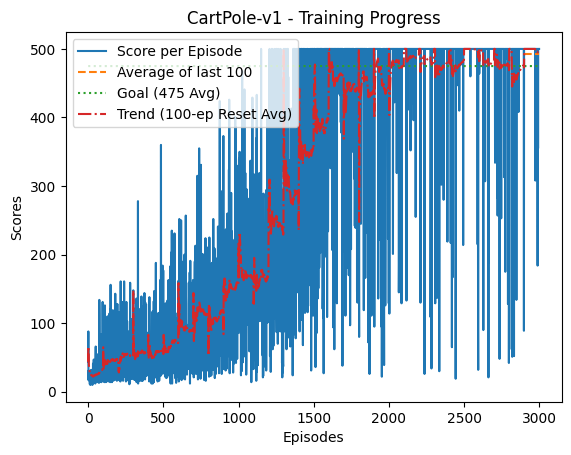
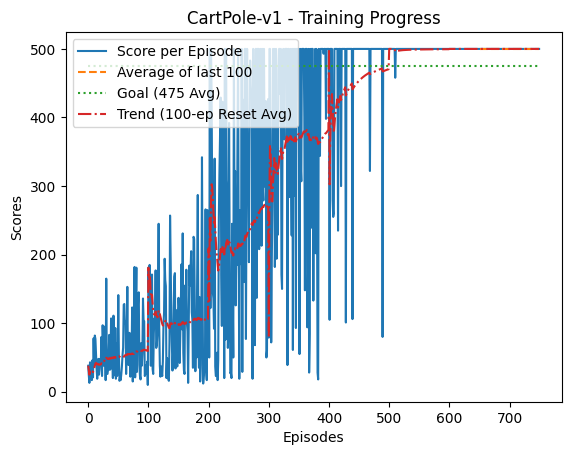
debug ppo

diff --git a/trainppo.py b/trainppo.py
@@ -1,0 +1,181 @@
+""""
+CartPole Training & Evaluation (PyTorch + Gymnasium)
+---------------------------------------------------
+- Trains a DQN agent and logs scores via ScoreLogger (PNG + CSV)
+- Saves model to ./models/cartpole_dqn.torch
+- Evaluates from a saved model (render optional)
+
+Student reading map:
+  1) train(): env loop → agent.act() → env.step() → agent.step() [Encapsulated]
+  2) evaluate(): loads saved model and runs agent.act(evaluation_mode=True)
+"""
+
+from __future__ import annotations
+import os
+import time
+import numpy as np
+import gymnasium as gym
+import torch
+
+from agents.cartpole_dqn import DQNSolver, DQNConfig
+from agents.ppo import PPOSolver, PPOConfig
+from scores.score_logger import ScoreLogger
+
+ENV_NAME = "CartPole-v1"
+MODEL_DIR = "models"
+MODEL_PATH = os.path.join(MODEL_DIR, "cartpole_ppo.torch")
+
+
+def train(num_episodes: int = 200, terminal_penalty: bool = True) -> DQNSolver:
+    """
+    Main training loop:
+      - Creates the environment and agent
+      - For each episode:
+          * Reset env -> get initial state
+          * Loop: select action, step environment, call agent.step()
+          * Log episode score with ScoreLogger
+      - Saves the trained model to disk
+    """
+    os.makedirs(MODEL_DIR, exist_ok=True)
+
+    # Create CartPole environment (no render during training for speed)
+    env = gym.make(ENV_NAME)
+    logger = ScoreLogger(ENV_NAME)
+
+    # Infer observation/action dimensions from the env spaces
+    obs_dim = env.observation_space.shape[0]
+    act_dim = env.action_space.n
+
+    # Construct agent with default config (students can swap configs here)
+    agent = PPOSolver(obs_dim, act_dim, cfg=PPOConfig())
+    print(f"[Info] Using device: {agent.device}")
+
+    # Episode loop
+    for run in range(1, num_episodes + 1):
+        # Gymnasium reset returns (obs, info). Seed for repeatability.
+        state, info = env.reset(seed=run)
+        state = np.reshape(state, (1, obs_dim))
+        steps = 0
+
+        while True:
+            steps += 1
+
+            # 1. ε-greedy action from the agent (training mode)
+            #    state shape is [1, obs_dim]
+            action = agent.act(state)
+
+            # 2. Gymnasium step returns: obs', reward, terminated, truncated, info
+            next_state_raw, reward, terminated, truncated, info = env.step(action)
+            done = terminated or truncated
+
+            # 3. Optional small terminal penalty (encourage agent to avoid failure)
+            if terminal_penalty and done:
+                reward = -1.0
+            
+            # 4. Reshape next_state for agent and next loop iteration
+            next_state = np.reshape(next_state_raw, (1, obs_dim))
+
+            # 5. Give (s, a, r, s', done) to the agent, which handles
+            #    remembering and learning internally.
+            agent.step(state, action, reward, next_state, done)
+
+            # 6. Move to next state
+            state = next_state
+
+            # 7. Episode end: log and break
+            if done:
+                print(f"Run: {run}, Epsilon: {agent.exploration_rate:.3f}, Score: {steps}")
+                logger.add_score(steps, run)  # writes CSV + updates score PNG
+                break
+
+    env.close()
+    # Persist the trained model
+    agent.save(MODEL_PATH)
+    print(f"[Train] Model saved to {MODEL_PATH}")
+    return agent
+
+
+def evaluate(model_path: str | None = None,
+             algorithm: str = "dqn",
+             episodes: int = 5,
+             render: bool = True,
+             fps: int = 60):
+    """
+    Evaluate a trained agent in the environment using greedy policy (no ε).
+    - Loads weights from disk
+    - Optionally renders (pygame window)
+    - Reports per-episode steps and average
+
+    Args:
+        model_path: If None, auto-pick the first .torch file under ./models
+        algorithm: Reserved hook if you later support PPO/A2C agents
+        episodes: Number of evaluation episodes
+        render: Whether to show a window; set False for headless CI
+        fps: Target frame-rate during render (sleep-based pacing)
+    """
+    # Resolve model path
+    model_dir = MODEL_DIR
+    if model_path is None:
+        candidates = [f for f in os.listdir(model_dir) if f.endswith(".torch")]
+        if not candidates:
+            raise FileNotFoundError(f"No saved model found in '{model_dir}/'. Please train first.")
+        model_path = os.path.join(model_dir, candidates[0])
+        print(f"[Eval] Using detected model: {model_path}")
+    else:
+        print(f"[Eval] Using provided model: {model_path}")
+
+    # Create env for evaluation; 'human' enables pygame-based rendering
+    render_mode = "human" if render else None
+    env = gym.make(ENV_NAME, render_mode=render_mode)
+    obs_dim = env.observation_space.shape[0]
+    act_dim = env.action_space.n
+
+    # (If you add PPO/A2C later, pick their agent classes by 'algorithm' here.)
+    if algorithm.lower() == "dqn":
+        agent = DQNSolver(obs_dim, act_dim, cfg=DQNConfig())
+    elif algorithm.lower() == "ppo":
+        agent = PPOSolver(obs_dim, act_dim, cfg=PPOConfig())
+    else:
+        raise ValueError(...)
+
+    # Load trained weights
+    agent.load(model_path)
+    print(f"[Eval] Loaded {algorithm.upper()} model from: {model_path}")
+
+    scores = []
+    # Sleep interval to approximate fps; set 0 for fastest evaluation
+    dt = (1.0 / fps) if render and fps else 0.0
+
+    for ep in range(1, episodes + 1):
+        state, _ = env.reset(seed=10_000 + ep)
+        state = np.reshape(state, (1, obs_dim))
+        done = False
+        steps = 0
+
+        while not done:
+            # Greedy action (no exploration) by calling act() in evaluation mode
+            action = agent.act(state, evaluation_mode=True)
+
+            # Step env forward
+            next_state, _, terminated, truncated, _ = env.step(action)
+            done = terminated or truncated
+            state = np.reshape(next_state, (1, obs_dim))
+            steps += 1
+
+            # Slow down rendering to be watchable
+            if dt > 0:
+                time.sleep(dt)
+
+        scores.append(steps)
+        print(f"[Eval] Episode {ep}: steps={steps}")
+
+    env.close()
+    avg = float(np.mean(scores)) if scores else 0.0
+    print(f"[Eval] Average over {episodes} episodes: {avg:.2f}")
+    return scores
+
+
+if __name__ == "__main__":
+    # Example: quick training then a short evaluation
+    agent = train(num_episodes=750, terminal_penalty=True)
+    evaluate(model_path="models/cartpole_ppo.torch", algorithm="ppo", episodes=100, render=False, fps=60)

diff --git a/agents/ppo.py b/agents/ppo.py
@@ -20,7 +20,7 @@ GAMMA = 0.99
 # λ: GAE parameter for advantage estimation
 GAE_LAMBDA = 0.95
 # Learning rate (Adam)
-LR = 1e-4
+LR = 1e-3
 # Clipping parameter
 CLIP_EPSILON = 0.2
 # Entropy coefficient
@@ -31,7 +31,7 @@ VALUE_COEF = 0.5
 PPO_EPOCHS = 15
 BATCH_SIZE = 64
 # collect before updating
-ROLLOUT_LENGTH = 1024
+ROLLOUT_LENGTH = 128
 # Max gradient norm for clipping
 MAX_GRAD_NORM = 0.5
 
@@ -150,6 +150,8 @@ class PPOConfig:
     gamma: float = GAMMA
     gae_lambda: float = GAE_LAMBDA
     lr: float = LR
+    lr_end: float = 1e-4  # 最终学习率
+    total_timesteps: int = 100000  # 总训练步数，用于计算 lr 衰减
     clip_epsilon: float = CLIP_EPSILON
     entropy_coef: float = ENTROPY_COEF
     value_coef: float = VALUE_COEF
@@ -186,6 +188,14 @@ class PPOSolver:
         
         # 与 train.py 兼容？ (DQN has exploration_rate)
         self.exploration_rate = 0.0  # PPO doesn't use epsilon-greedy
+        
+        # 用于 bootstrap 的状态（初始化为 None，会在 step() 中设置）
+        self._last_next_state = None
+        self._last_done = True  # 初始设为 True，这样如果意外调用 update 会用 last_value=0
+        
+        # 学习率衰减相关
+        self._initial_lr = self.cfg.lr
+        self._lr_end = self.cfg.lr_end
 
     # -----------------------------
     # Acting & memory
@@ -236,6 +246,10 @@ class PPOSolver:
         self.remember(state, action, reward, done)
         self.steps += 1
         
+        # 保存 next_state 用于计算 last_value（bootstrap）
+        self._last_next_state = next_state
+        self._last_done = done
+        
         # Update when rollout buffer is full or episode ends
         if done:
             self.episodes += 1
@@ -250,10 +264,11 @@ class PPOSolver:
         Perform PPO update using collected trajectories.
         Steps:
           1) Get all transitions from buffer
-          2) Compute advantages using GAE
-          3) Normalize advantages
-          4) Perform multiple epochs of minibatch updates
-          5) Clear buffer
+          2) Compute last_value for bootstrap (关键修复！)
+          3) Compute advantages using GAE
+          4) Normalize advantages
+          5) Perform multiple epochs of minibatch updates
+          6) Clear buffer
         """
         if len(self.buffer) == 0:
             return
@@ -261,8 +276,22 @@ class PPOSolver:
         # Get data from buffer
         states, actions, rewards, values, old_log_probs, dones = self.buffer.get()
 
+        # 关键修复：计算 last_value 用于 bootstrap
+        # 如果最后一步是 episode 终点，last_value = 0
+        # 否则，用 network 估计 next_state 的 value
+        if self._last_done:
+            last_value = 0.0
+        else:
+            with torch.no_grad():
+                next_state_np = np.asarray(self._last_next_state, dtype=np.float32)
+                if next_state_np.ndim == 1:
+                    next_state_np = next_state_np[None, :]
+                next_state_t = torch.as_tensor(next_state_np, dtype=torch.float32, device=self.device)
+                _, next_value = self.network(next_state_t)
+                last_value = next_value.cpu().numpy().squeeze()
+
         # Compute advantages and returns using GAE
-        advantages, returns = self.compute_gae(rewards, values, dones)
+        advantages, returns = self.compute_gae(rewards, values, dones, last_value)
 
         # Convert to tensors
         states_t = torch.as_tensor(states, dtype=torch.float32, device=self.device)
@@ -321,8 +350,18 @@ class PPOSolver:
 
         # Clear buffer after update
         self.buffer.clear()
+        
+        # 线性学习率衰减
+        self._update_learning_rate()
 
-    def compute_gae(self, rewards: np.ndarray, values: np.ndarray, dones: np.ndarray) -> Tuple[np.ndarray, np.ndarray]:
+    def _update_learning_rate(self):
+        """线性衰减学习率: lr = lr_start + (lr_end - lr_start) * progress"""
+        progress = min(1.0, self.steps / self.cfg.total_timesteps)
+        new_lr = self._initial_lr + (self._lr_end - self._initial_lr) * progress
+        for param_group in self.optim.param_groups:
+            param_group['lr'] = new_lr
+
+    def compute_gae(self, rewards: np.ndarray, values: np.ndarray, dones: np.ndarray, last_value: float = 0.0) -> Tuple[np.ndarray, np.ndarray]:
         """        
         A_t = delta_t + (gamma lambda)delta_{t+1} + (gamma lambda)²delta_{t+2} + ...
         where delta_t = r_t + γV(s_{t+1}) - V(s_t)
@@ -331,6 +370,7 @@ class PPOSolver:
             rewards: array of rewards [T]
             values: array of value estimates [T]
             dones: array of done flags [T]
+            last_value: V(s_T) for bootstrap when buffer ends at non-terminal state
         
         Returns:
             advantages: array of advantages [T]
@@ -341,18 +381,21 @@ class PPOSolver:
         
         for t in reversed(range(len(rewards))):
             if t == len(rewards) - 1:
-                next_value = 0  # Bootstrap value is 0 for terminal state
+                # 关键修复：使用传入的 last_value 而不是总是 0
+                next_value = last_value
+                # 如果最后一步是终结状态，last_gae 也需要重置
+                next_non_terminal = 1.0 - dones[t]
             else:
                 next_value = values[t + 1]
-            
-            # Mask next_value if episode ended
-            mask = 1.0 - dones[t]
+                next_non_terminal = 1.0 - dones[t]
             
             # TD error: δ_t = r_t + γV(s_{t+1}) - V(s_t)
-            delta = rewards[t] + self.cfg.gamma * next_value * mask - values[t]
+            # 当 done[t]=1 时，next_value 不应该被使用（episode 终止）
+            delta = rewards[t] + self.cfg.gamma * next_value * next_non_terminal - values[t]
             
             # GAE accumulation
-            last_gae = delta + self.cfg.gamma * self.cfg.gae_lambda * mask * last_gae
+            # 当 done[t]=1 时，不应该传播之前的 advantage
+            last_gae = delta + self.cfg.gamma * self.cfg.gae_lambda * next_non_terminal * last_gae
             advantages[t] = last_gae
         
         # Returns are advantages + values
